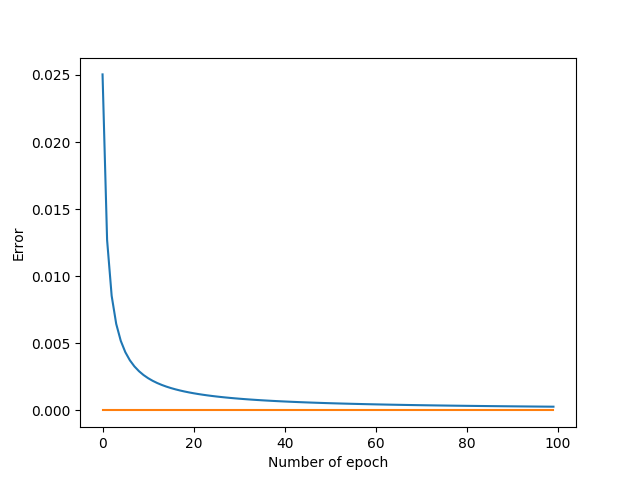
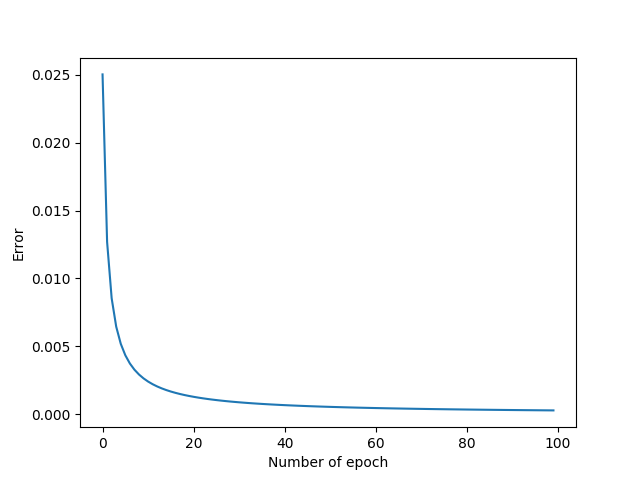
initial

diff --git a/final_project_v4.py b/final_project_v4.py
@@ -8,6 +8,7 @@ import matplotlib.pyplot as plt
 
 
 from sklearn.preprocessing import MinMaxScaler
+from sklearn.metrics import accuracy_score
 
 
 train_filename = "adult.data"
@@ -81,7 +82,7 @@ def relu(x):
 
 def d_relu(a):
     d = np.zeros_like(a)
-    d[np.where(a >= 0.0)] = 1.0
+    d[np.where(a > 0.0)] = 1.0
 
     return d
 
@@ -93,7 +94,7 @@ def d_tanh(x):
 
     return 1.0 - np.tanh(x) ** 2
 
-
+# https://deepnotes.io/softmax-crossentropy
 def cross_entropy(p, t):
     s = t.shape[0]
     log_likelihood = -np.log(p[range(s), np.argmax(t, axis=1)])
@@ -125,18 +126,6 @@ class NN:
         self.bh2 = np.random.rand(nh2) / (np.sqrt(nh2) * 1e3)
         self.bo = np.random.rand(no) / (np.sqrt(no) * 1e3)
 
-    def cross_entropy(self, p, t):
-        s = t.shape[0]
-        log_likelihood = -np.log(p[range(s), np.argmax(t, axis=1)])
-
-        return np.sum(log_likelihood) / s
-
-    def d_cross_entropy(self, g, y):
-        m = y.shape[0]
-        g[range(m), np.argmax(y, axis=1)] -= 1
-        g = g / m
-
-        return g
 
     def feedFwd(self, X):
         ai = X
@@ -149,7 +138,7 @@ class NN:
 
     def backProp(self, ai, ah1, ah2, ao, y, batchSize=1):
 
-        delOut = self.d_cross_entropy(ao, y)
+        delOut = d_cross_entropy(ao, y)
         delHidden2 = delOut.dot(self.wout.T) * d_relu(ah2)
         delHidden1 = delHidden2.dot(self.wh1h2.T) * d_tanh(ah1)
 
@@ -165,20 +154,23 @@ class NN:
     def fit(self, X, y, alpha=0.1):
         self.learning_rate = alpha
         ai, ah1, ah2, ao = self.feedFwd(X)
-        self.out_error = self.cross_entropy(ao, y)
+        self.out_error = cross_entropy(ao, y)
         self.backProp(ai, ah1, ah2, ao, y)
 
     def predict(self, X):
         ai, ah1, ah2, ao = self.feedFwd(X)
         return ao
 
-def accuracy(pred, y_true):
-    pr_cl = [np.argmax(pred) + 1 for pred in pred]
-    y_cl = [np.argmax(pred) + 1 for pred in y_true]
-    res = 0
-    for xc, yc in zip(pr_cl, y_cl):
-        res += 0 if xc == yc else 1
-    return ((len(pr_cl) - res)/len(pr_cl))*100
+
+def accuracy_metric(actual, predicted):
+    actual = np.argmax(actual, axis=1)
+    predicted = np.argmax(predicted, axis=1)
+
+    correct = 0
+    for i in range(len(actual)):
+        if actual[i] == predicted[i]:
+            correct += 1
+    return correct / float(len(actual)) * 100.0
 
 def evaluate(model, X_train, y_train, X_test, y_test, iteration=100, alpha = 0.1, batch_size = 10):
 
@@ -194,7 +186,7 @@ def evaluate(model, X_train, y_train, X_test, y_test, iteration=100, alpha = 0.1
             batch_y = y_train[batch_offset:min(batch_offset+batch_size, y_train.shape[0]),:]
             model.fit(batch_X, batch_y, alpha=alpha)
         y_pred = model.predict(X_test)
-        acc = accuracy(y_pred, y_test)
+        acc = accuracy_metric(y_pred, y_test)
         accur.append(acc)
         err = np.mean(np.abs(model.out_error))
         error.append(err)
@@ -211,14 +203,13 @@ batch_size = 40
 
 
 epochList, error_list, accuracy_list = evaluate(model, XTrain, YTrain, XTest, YTest, iteration, alpha, batch_size)
-print(len(epochList))
-print(len(error_list))
-print(len(accuracy_list))
+
 
 #plot graph
 plt.plot(epochList, error_list)
-plt.plot(epochList, accuracy_list)
 plt.xlabel('Number of epoch')
 plt.ylabel('Error')
 plt.savefig('loss-function.png')
 plt.show()
+
+print(sum(accuracy_list))
